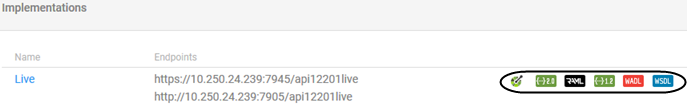
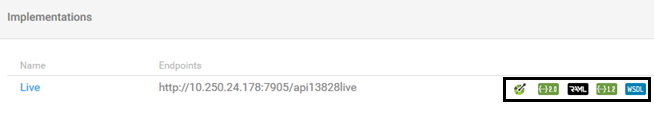
ATMO-31090: mods to remove WADL download from API pages.

diff --git a/cm/learnmore/basics_glossary.htm b/cm/learnmore/basics_glossary.htm
@@ -127,7 +127,7 @@ nav-title: Glossary of Terms
 
 
 	<dt id="gl_api_description_document">API description document</dt>
-	<dd>An API description document is a document written in one of the API description languages supported by the API platform (Swagger, RAML, WADL, or WADL). In the developer portal, you Scan add an API by uploading the API description document, and you can update an API by uploading a revised document. The platform takes the information in the API description document and uses it to present a visual display of the API in API Designer, as well as generating the API documentation.</dd>
+	<dd>An API description document is a document written in one of the API description languages supported by the API platform (<a href="#gl_oas30">OAS 3.0</a>, <a href="#gl_swagger_20">Swagger 2.0</a>, <a href="#gl_swagger_12">Swagger 1.2</a>, <a href="#gl_raml">RAML 0.8</a>, <a href="#gl_wsdl">WSDL</a>, or <a href="#gl_wadl">WADL</a>). In the developer portal, you Scan add an API by uploading the API description document, and you can update an API by uploading a revised document. The platform takes the information in the API description document and uses it to present a visual display of the API in API Designer, as well as generating the API documentation.</dd>
 
 
 	<dt id="gl_api_description_language">API description language</dt>
@@ -216,7 +216,7 @@ nav-title: Glossary of Terms
 
 
 	<dt id="gl_autoconnect">auto-connect feature</dt>
-	<dd>The platform's auto-connect feature allows an API Admin to set up the API so that when a new app is created on the platform, a <a href="#gl_contract">contract</a> with the API is created automatically. The API Admin specifies the details of the access granted with the auto-connect feature, such as whether access is to the Sandbox or <!-- #BeginLibraryItem "/Library/environ_live.lbi" -->Live<!-- #EndLibraryItem --> implementation, or whether access is limited to specific operations or a specific transaction volume (via the <a href="basics_glossary.htm#gl_license">Licenses</a> feature, implemented with <a href="basics_glossary.htm#gl_scopemapping">scope mapping</a>).</dd>
+	<dd>The platform's auto-connect feature allows an API Admin to set up the API so that when a new app is created on the platform, a <a href="#gl_contract">contract</a> with the API is created automatically. The API Admin specifies the details of the access granted with the auto-connect feature, such as whether access is to the Sandbox or <!-- #BeginLibraryItem "/Library/environ_live.lbi" -->Live<!-- #EndLibraryItem --> implementation, or whether access is limited to specific operations or a specific transaction volume (via the <a href="#gl_license">Licenses</a> feature, implemented with <a href="#gl_scopemapping">scope mapping</a>).</dd>
 
 
 	<dt id="gl_avatar">avatar</dt>
@@ -470,7 +470,7 @@ nav-title: Glossary of Terms
 
 	<dt id="gl_csv">CSV</dt>
 	<dd>Comma-separated value format, a data type for certain API input parameters. This format is commonly used for exporting tabular data. For example, in the&nbsp;<!-- #BeginLibraryItem "/Library/_PlatformName.lbi" -->Akana API Platform<!-- #EndLibraryItem -->, the metric information is exported in CSV format.</dd>
-	<dd>Used in API documentation generated with Swagger 2.0: see <a href="http://swagger.io/specification/" title="OpenAPI specification" target="_blank">http://swagger.io/specification/</a>.</dd>
+	<dd>Used in API documentation generated with <a href="#gl_swagger_20">Swagger 2.0</a>: see <a href="http://swagger.io/specification/" title="OpenAPI specification" target="_blank">http://swagger.io/specification/</a>.</dd>
 
 
 	<dt id="gl_custom_en_us_json">custom_en-us.json file</dt>
@@ -1159,7 +1159,7 @@ This theme supports full functionality of the developer portal, including Admini
 <h2 class="index" id="gl_alpha_o">O</h2>
 <dl>
 	<dt id="gl_oas30">OAS 3.0</dt>
-	<dd>Open API Specification 3.0/Open API 3.0/OAS 3.0 is the next generation of Swagger 2.0. It was originally part of the Swagger framework, but became a separate project, OpenAPI, in January 2016. It is an open source, collaborative project managed by the Linux foundation. There are several key differences between Swagger 2.0 and OAS 3.0.</dd>
+	<dd>Open API Specification 3.0/Open API 3.0/OAS 3.0 is the next generation of <a href="#gl_swagger_20">Swagger 2.0</a>. It was originally part of the Swagger framework, but became a separate project, OpenAPI, in January 2016. It is an open source, collaborative project managed by the Linux foundation. There are several key differences between <a href="#gl_swagger_20">Swagger 2.0</a> and OAS 3.0.</dd>
 	<dd>The OpenAPI 3.0 specification is hosted on GitHub: <a href="https://github.com/OAI/OpenAPI-Specification/blob/master/versions/3.0.0.md" title="Link to OAS 3.0 specification on GitHub" target="_blank">https://github.com/OAI/OpenAPI-Specification/blob/master/versions/3.0.0.md</a>.</dd>
 	<dd>The Akana API Platform supports OAS 3.0 (2019.0.0 and later), <a href="#gl_swagger_20">Swagger 2.0</a>, and <a href="#gl_swagger_12">Swagger 1.2</a>.</dd>
 
@@ -1457,6 +1457,7 @@ This theme supports full functionality of the developer portal, including Admini
 
 	<dt id="gl_raml">RAML</dt>
 	<dd>Acronym for RESTful API Modeling Language. RAML is a language based on <a href="#gl_yaml">YAML</a>, and is used for describing RESTful APIs.</dd>
+	<dd>The API Platform supports RAML 0.8.</dd>
 
 
 	<dt id="gl_rating">rating</dt>
@@ -1751,7 +1752,7 @@ This theme supports full functionality of the developer portal, including Admini
 	
 	
 	<dt id="gl_ssv">SSV</dt>
-	<dd>Space-separated value format, a data type for certain API input parameters. This format is commonly used for exporting tabular data. Used in API documentation generated with Swagger 2.0: see <a href="http://swagger.io/specification/" title="OpenAPI specification" target="_blank">http://swagger.io/specification/</a>.</dd>
+	<dd>Space-separated value format, a data type for certain API input parameters. This format is commonly used for exporting tabular data. Used in API documentation generated with <a href="#gl_swagger_20">Swagger 2.0</a>: see <a href="http://swagger.io/specification/" title="OpenAPI specification" target="_blank">http://swagger.io/specification/</a>.</dd>
 	
 	
 	<dt id="gl_sts">STS</dt>
@@ -1770,7 +1771,7 @@ This theme supports full functionality of the developer portal, including Admini
 	
 	
 	<dt id="gl_swagger_12">Swagger 1.2</dt>
-	<dd>An earlier version of <a href="api_admin_content_guidelines.htm#what_is_swagger_and_how_does_it_work"></a>Swagger. Swagger 2.0 and <a href="#gl_oas30">OAS 3.0</a> are descendents.</dd>
+	<dd>An earlier version of <a href="api_admin_content_guidelines.htm#what_is_swagger_and_how_does_it_work"></a>Swagger. <a href="#gl_swagger_20">Swagger 2.0</a> and <a href="#gl_oas30">OAS 3.0</a> are descendents.</dd>
 	<dd>The Swagger 1.2 specification is hosted on GitHub: <a href="https://github.com/OAI/OpenAPI-Specification/blob/master/versions/1.2.md" title="Link to Swagger 1.2 specification on GitHub" target="_blank">https://github.com/OAI/OpenAPI-Specification/blob/master/versions/1.2.md</a>.</dd>
 	<dd>The Akana API Platform supports <a href="#gl_oas30">OAS 3.0</a> (2019.0.0 and later), <a href="#gl_swagger_20">Swagger 2.0</a>, and Swagger 1.2.</dd>
 	
@@ -1827,7 +1828,7 @@ This theme supports full functionality of the developer portal, including Admini
 
 	<dt id="gl_theme">theme</dt>
 	<dd>One instance of the portal. More than one theme can be defined during the installation process and can then be customized for different purposes or audiences. Each theme has a separate URL.</dd>
-	<dd>The platform includes three out-of-the-box standard themes: <a href="basics_glossary.htm#gl_theme_default">Default Theme</a>, <a href="basics_glossary.htm#gl_theme_simpledev">Simple Dev</a>, and <a href="basics_glossary.htm#gl_theme_hermosa">Hermosa</a>. All three themes can be extended, which means you can have more than one version, independently customizable.</dd>
+	<dd>The platform includes three out-of-the-box standard themes: <a href="#gl_theme_default">Default Theme</a>, <a href="#gl_theme_simpledev">Simple Dev</a>, and <a href="#gl_theme_hermosa">Hermosa</a>. All three themes can be extended, which means you can have more than one version, independently customizable.</dd>
 	<dd>For overview and illustrations, see <a href="basics_navigation.htm#platform_ui_overview">Platform user interface &quot;theme&quot;</a>. For more information, see <a href="site_admin_config.htm#what_is_a_platform_theme">What is a platform theme?</a></dd>
 
 
@@ -1959,6 +1960,7 @@ This theme supports full functionality of the developer portal, including Admini
 <dl>
 	<dt id="gl_wadl">WADL</dt>
 	<dd>Acronym for Web Application Description Language, an XML-based description language for RESTful Web APIs. WADL is one of the <a href="#gl_api_description_language">API description languages</a> supported by the API Platform.</dd>
+	<dd><strong>Note</strong>: The platform supports WADL for upload to create an API, but does not support download of an API description in WADL format.</dd>
 
 
 	<dt id="gl_wellknownconfigurationurl">well-known configuration URL (OpenID Connect)</dt>

diff --git a/cm/learnmore/apiadmin_a_d_d_support.htm b/cm/learnmore/apiadmin_a_d_d_support.htm
@@ -107,7 +107,7 @@ nav-title: API Description Language Support
 
 <h2 id="overloaded_operations_support_apidoc">Does the platform support overloaded operations in API documentation?</h2>
 <p>The platform supports adding <a href="basics_glossary.htm#gl_overloaded_operation">overloaded operations</a> (multiple operations using the same path, with different design elements such as media types), and displays overloaded operations correctly in the user interface, including API pages, generated API documentation, and Test Client.</p>
-<p>The Swagger 2.0 standard specification does not support overloaded operations; because of this, if you try to download a Swagger document (<strong>API</strong> &gt; <strong>Details</strong> &gt; <strong>Implementations</strong> (bottom of page) for an API that includes overloaded operations, the platform generates an error. This is also true for Swagger 1.2 and RAML. Overloaded operations are not an issue with WADL.</p>
+<p>The Swagger 2.0 standard specification does not support overloaded operations; because of this, if you try to download a Swagger document (<strong>API</strong> &gt; <strong>Details</strong> &gt; <strong>Implementations</strong> (bottom of page) for an API that includes overloaded operations, the platform generates an error. This is also true for Swagger 1.2 and RAML.</p>
 <p><a href="#top">Back to top</a></p>
 
 
@@ -219,7 +219,7 @@ nav-title: API Description Language Support
 	<li>Query parameters</li>
 	<li>Responses</li>
 </ul>
-<p>The platform doesn't yet support including examples in the generated documentation. Examples for query parameters, request body, or response body are not represented in the Akana API Designer and are omitted when exporting to Swagger, WSDL, or WADL</p>
+<p>The platform doesn't yet support including examples in the generated documentation. Examples for query parameters, request body, or response body are not represented in the Akana API Designer and are omitted when exporting to Swagger or WSDL.</p>
 <p><a href="#top">Back to top</a></p>
 
 
@@ -258,27 +258,27 @@ nav-title: API Description Language Support
 
 <h2 id="supported_languages_view">How can I view the API description document for an API?</h2>
 <p>The API Admin can view the visual design of the API in API Designer, and can also view the Swagger representation by clicking the Swagger tab: see <a href="apiadmin_api_design.htm#api_designer_swagger_doc_view">How do I view the Swagger representation of my API in API Designer?</a></p>
-<p>If you're not the Admin for the API, or if you want to view the API description in some other format&#8212;for example, the API is based on Swagger but you want to view a RAML or WADL representation&#8212;you can do that in the Implementations section:</p>
+<p>If you're not the Admin for the API, or if you want to view the API description in some other format&#8212;for example, the API is based on Swagger 2.0 but you want to view a RAML or OAS 3.0 representation&#8212;you can do that in the Implementations section:</p>
 <ul>
 	<li><strong>All users who have view access to the API</strong>: on the API's <strong>Overview</strong> page, in the <strong>Implementations</strong> section.</li>
 	<li><strong>API Admins</strong>: The same information is also on the API's <strong>Details</strong> page.</li>
 </ul>
-<p> In most cases, you can view a representation of the API in all supported description languages, as shown below:</p>
+<p> In most cases, you can view a representation of the API in additional supported description languages, as shown below:</p>
 <p><img src="assets/api_description_languages.png" alt="API description language options for a specific API" /></p>
 <p><strong>Note</strong>: For SOAP-based APIs, created by uploading a WSDL file, only the WSDL option is available. See <a href="apiadmin_api_add.htm#add_api_soap">How do I add a SOAP-based API?</a></p>
-<p>In the above example, the API can be viewed in all formats supported by the API Platform:</p>
+<p>In the above example, the API can be viewed in these formats supported by the API Platform:</p>
 <ul>
 	<li><a href="basics_glossary.htm#gl_oas30">OAS 3.0</a></li>
 	<li><a href="basics_glossary.htm#gl_swagger_20">Swagger 2.0</a></li>
 	<li><a href="basics_glossary.htm#gl_swagger_12">Swagger 1.2</a></li>
 	<li><a href="basics_glossary.htm#gl_raml">RAML 0.8</a></li>
-	<li><a href="basics_glossary.htm#gl_wadl">WADL</a></li>
 	<li><a href="basics_glossary.htm#gl_wsdl">WSDL</a></li>
 </ul>
+<p>Download is not available for <a href="basics_glossary.htm#gl_wadl">WADL</a>.</p>
 <p>To view the API representation, click the applicable icon. The API description is immediately available:</p>
 <ul>
 	<li>For Swagger 1.2, Swagger 2.0, OAS 3.0, and WSDL, the API description document opens in a new browser tab.</li>
-	<li>For RAML and WADL, the API description is available as a downloaded file.</li>
+	<li>For RAML, the API description is available as a downloaded file.</li>
 </ul>
 <p><a href="#top">Back to top</a></p>
 

diff --git a/cm/learnmore/apiadmin_getting_started.htm b/cm/learnmore/apiadmin_getting_started.htm
@@ -35,7 +35,7 @@ nav-title: Getting Started for API Developers
 
 
 <h2 id="add_api_a_d_d">Step 2A: Add an API from an API description document</h2>
-<p>When you add an API from a Swagger, RAML, WADL, or WSDL document, the platform creates the API, uses the information to add the API design, and creates the <!-- #BeginLibraryItem "/Library/environ_live.lbi" -->Live<!-- #EndLibraryItem --> implementation. You'll then need to review the implementation and modify as needed, add another implementation if you want another, and test.</p>
+<p>When you add an API from a Swagger, RAML, WSDL, or WADL document, the platform creates the API, uses the information to add the API design, and creates the <!-- #BeginLibraryItem "/Library/environ_live.lbi" -->Live<!-- #EndLibraryItem --> implementation. You'll then need to review the implementation and modify as needed, add another implementation if you want another, and test.</p>
 <h4>To add an API using an API description document</h4>
 <ol>
 	<li>Log in to the Akana API Platform.</li>
@@ -59,8 +59,7 @@ nav-title: Getting Started for API Developers
 <h4>To add an API by designing from scratch</h4>
 <ol>
 	<li>Log in to the Akana API Platform.</li>
-	<li>Click the plus sign <strong>(+)</strong> in the middle of the top menu bar, and choose <strong>Add a New API</strong>.</li>
-	<li>Choose <strong>Add a new API</strong> and click <strong>Add</strong>.</li>
+	<li>Go to <strong>APIs</strong> &gt; <strong>Add API</strong>. The <strong>Add API</strong> page opens.</li>
 	<li>Click the <strong>I want to design my API from scratch (REST only)</strong> button.</li>
 	<li>Provide a name for the API, and the endpoint if you have it already.</li>
 	<li>Optional: click the <strong>Advanced Options</strong> slider button (blue dot) and specify additional settings. See <a href="apiadmin_api_add.htm#api_add_advanced_options">What information should I specify in the Advanced Options?</a></li>
@@ -71,7 +70,7 @@ nav-title: Getting Started for API Developers
 			<li>Adding responses for operations: see <a href="apiadmin_api_design.htm#api_designer_define_response">How do I define my API response?</a></li>
 			<li>Specifying media types: see <a href="apiadmin_api_design.htm#api_designer_media_types_set_up">How do I set up media types in API Designer?</a></li>
 			<li>Adding model object definitions: see <a href="apiadmin_api_design.htm#model_object_add">How do I assign a model object to a resource in API Designer?</a></li>
-		</ul>
+			</ul>
 	</li>
 	<li>When done, remember to click <strong>Save</strong> on the API Designer window, to save your API design.</li>
 </ol>

diff --git a/cm/learnmore/apiadmin_overview.htm b/cm/learnmore/apiadmin_overview.htm
@@ -243,7 +243,6 @@ nav-title: API Admin Overview
 	<li><a href="basics_glossary.htm#gl_swagger_20">Swagger 2.0</a></li>
 	<li><a href="basics_glossary.htm#gl_swagger_12">Swagger 1.2</a></li>
 	<li><a href="basics_glossary.htm#gl_raml">RAML 0.8</a></li>
-	<li><a href="basics_glossary.htm#gl_wadl">WADL</a></li>
 	<li><a href="basics_glossary.htm#gl_wsdl">WSDL</a></li>
 </ul>
 <p>In general, SOAP-based APIs, created from an uploaded WSDL file, are only available for viewing in WSDL format. See <a href="apiadmin_api_add.htm#add_api_soap">How do I add a SOAP-based API?</a></p>
